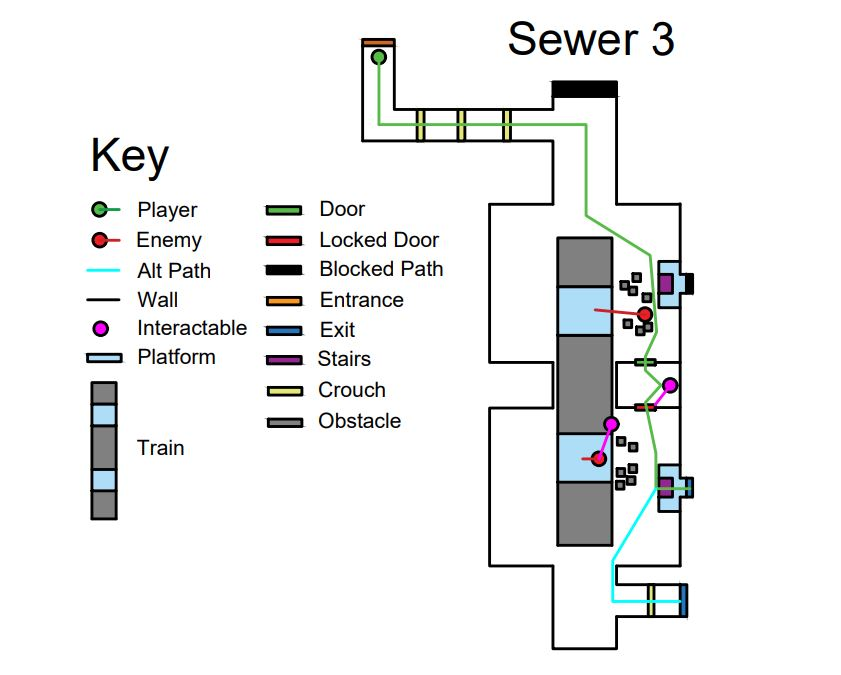
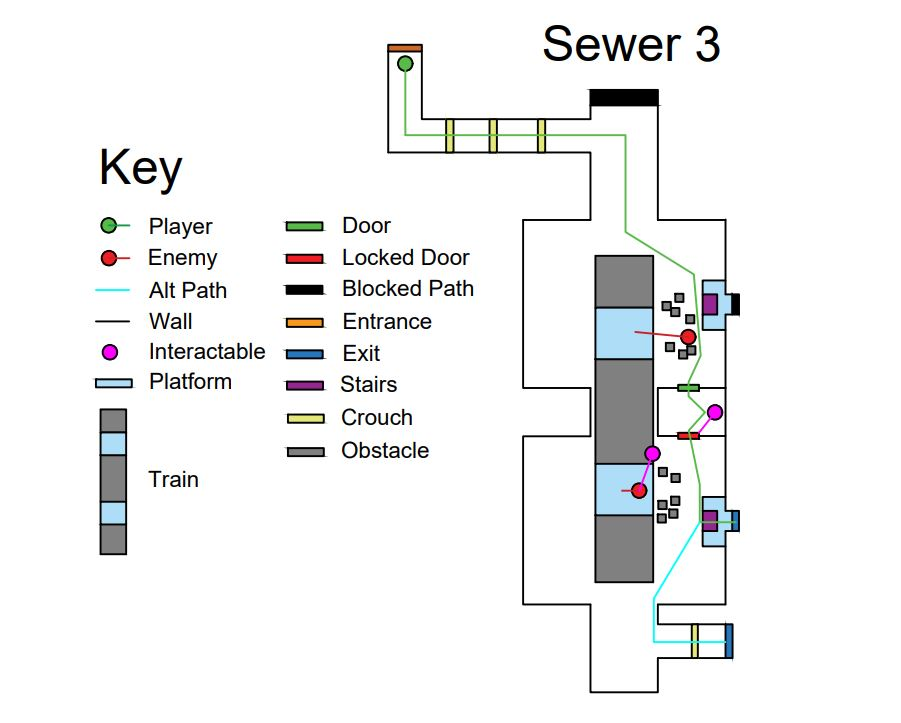
Violet Steele

Changed region(s): [[0.4328, 0.0311, 0.8347, 0.9644], [0.0927, 0.1867, 0.5256, 0.7778], [0.5565, 0.3111, 0.5874, 0.5289]]

diff --git a/projects/violetSteele.html b/projects/violetSteele.html
@@ -43,23 +43,19 @@
 			<!-- Content -->
 				<div id="content">
 				<article class="box post">
-					<header class="style1">
-					        <!-- <h2>
-								<a href="#Level Design">Level Design</a> | 
-								<a href="#Game Design">Game Design</a> |
-								<a href="#Environmental Design">Environmental Design</a>
-							</h2> -->
-					</header>
-			
-					<!-- Image	-->
-					<center>
-						<img src="images/VioletSteelePoster.png" alt="Poster for Violet Steele" width="500"/>
-						<p> Poster for Violet Steele </p>
-					</center>
-			
 					
-					<!-- Details -->				
-					<center>
+			
+		<!-- Overview -->
+		<header class="style1">
+			<h2>Overview</h2>
+			</header>
+				
+			<!-- Image	-->
+				<figure>
+					<img src="images/VioletSteelePoster.png" alt="Poster for Violet Steele" align="right"width="500"/>
+				</figure>
+		
+					<!-- Details -->			
 						<p> <strong> Duration: </strong> 15 Weeks (Senior Capstone for School) <br>
 						<strong> Team Size: </strong> 5 <br>
 						<strong> Tools: </strong> UE5, Github, Trello, AutoCAD<br>
@@ -72,12 +68,14 @@
 								<a href="https://www.linkedin.com/in/christian-hsieh-c384/" target="_blank">Christian Hsieh</a>,
 								<a href="https://www.linkedin.com/in/jonathan-c-jackson/" target="_blank">Jonathan Jackson</a>
 						</p>
-					</center>	
+
 						<!-- Description -->
 						<p> <strong> Description: </strong> Violet Steele is a third-person action adventure stealth game set in the steampunk country of Novellia.
 						Once a peaceful and flourishing country, Novellia is now under a hostile takeover by the Hex Alliance due to the abuse of robots fueled by
 						the revolutionary invention of electricity. </p>
 						
+						
+
 						<!-- Responsibilities -->
 						<p> <strong> Responsibilities: </strong> 
 							<ul>
@@ -87,55 +85,58 @@
 								<li> Working with writers to strengthen gameplay </li>
 								<li> Creating an environment that reflects our games narrative </li>
 								<li> Enemy placement </li>
-								<li> Resource placement </li>
-								<li> Creating 3D assets for 3D modelers (Assets with details so they could better understand what I envisioned) </li>
+								<li> Set dressing (Furniture, Lighting, and Resource placement) </li>
+								<li> Creating 3D assets for 3D modelers (Assets with details so they could <br> better understand what I envisioned) </li>
 								
 							</ul>
 						</p>
+					
+					
 				</article>
 				</div>
 
 		<!-- Research and Planning -->
-		<header class="style1">
-		<h2>Research and Planning</h2>
-		</header>
-			
-			<!-- Stealth Game Research-->
-			<header class="style2">
-				<h2> Stealth Game Research </h2>
+			<header class="style1">
+				<h2>Research and Planning</h2>
 			</header>
+			
+				<!-- Stealth Game Research-->
+					<header class="style2">
+						<h2> Stealth Game Research </h2>
+					</header>
 
-			<ul>
-				<li> Researched and watched videos on Stealth games </li>
-				<li> Researching <strong> designer's </strong> perspective's on stealth games </li>
-				<li> Researching <strong> player's </strong> perspective's on stealth games </li>
-				<li> Researched Level Design concepts and structures that could fit our game </li>
-				<li> Researched games with similar Game Mechanics </li>
-			</ul>
+						<ul>
+							<li> Researched and watched videos on Stealth games </li>
+							<li> Researching <strong> designer's </strong> perspective's on stealth games </li>
+							<li> Researching <strong> player's </strong> perspective's on stealth games </li>
+							<li> Researched Level Design concepts and structures that could fit our game </li>
+							<li> Researched games with similar Game Mechanics </li>
+						</ul>
 		
-			<br>
+					<br>
 			
-			
-			<figure>
-				<center>
-					<a href="https://www.youtube.com/watch?v=CTBor4rhnQs&t=24s" target='_blank'>
-						<img src="images/Other/Aubrey Serr.jpg" alt="Poster for Violet Steele" width="500"/> </a>
-							<figcaption> Watched Aubrey Serr’s GDC video on designing "Radically Non-Linear Levels” to see if this 
-										 structure could fit our game </figcaption>
-				</center> 
-			</figure>
+					<!-- Image -->
+						<figure>
+							<center>
+								<a href="https://www.youtube.com/watch?v=CTBor4rhnQs&t=24s" target='_blank'>
+								<img src="images/Other/Aubrey Serr.jpg" alt="Poster for Violet Steele" width="500"/> </a>
+									<figcaption> <strong> Watched Aubrey Serr's GDC video on designing "Radically Non-Linear Levels” to see if this 
+									structure could fit our game </strong> </figcaption>
+							</center> 
+						</figure>
 
-			<br>
+					<br>
 
-			<figure>
-				<center>
-					<a href="https://youtu.be/y99DqGw-jG4?t=14689" target='_blank'>
-						<img src="images/Other/LOU Gameplay.JPG" alt="Poster for Violet Steele" width="500"/> </a>
-							<figcaption> The Last of Us gameplay with similar game mechanics to our own </figcaption>
-   				</center>
-			</figure>
+					<!-- Image -->
+						<figure>
+							<center>
+								<a href="https://youtu.be/y99DqGw-jG4?t=14689" target='_blank'>
+								<img src="images/Other/LOU Gameplay.JPG" alt="Poster for Violet Steele" width="500"/> </a>
+									<figcaption> <strong> Last of Us gameplay with similar game mechanics to our own </strong> </figcaption>
+   							</center>
+						</figure>
 			
-			<br>
+					<br>
 
 			<!-- Image and Architecture Research -->
 			<header class="style2">
@@ -153,20 +154,52 @@
 			<header class="style1">
 				<h2> Prototyping and Iterations </h2>
 			</header>
-			
-			
-			<p> The sewer section of Level 1 would serve as the introduction to the game's mechanics and also show the player how they entered the city despite the strict
-				curfew. The sewer section would connect to a train station where the player would make their first encounter with enemies and given an oppurtunity to try
-				out the game's mechanics</p>
 
-			<center>
-				<img style="border:2px solid black" src="images/Sewer/Sewer 1 - 2D.JPG" alt="First 2D sketch of Sewer Section" width="500"/>
-				<img style="border:2px solid black" src="images/Sewer/Sewer 2 - 2D.JPG" alt="Second 2D sketch of Sewer Section" width="500"/>
-				<img style="border:2px solid black" src="images/Sewer/Sewer 3 - 2D.JPG" alt="Third 2D sketch of Sewer Section" width="500"/>
-				<img style="border:2px solid black" src="images/Sewer/Sewer 4 - 2D.JPG" alt="Fourth 2D sketch of Sewer Section" width="500"/> <br>
-				<strong> 2D iterations of the sewer drawn in AutoCAD </strong>
-			</center>
-		
+				<!-- 2D Mapping -->
+					<header class="style2">
+						<h2> 2D Mapping </h2>
+					</header>
+
+						<ul>
+							<li> After settling on our core gameplay mechanics I began prototyping </li>
+							<li> Creating hand drawn sketches then translating them to 2D Maps with Keys </li>
+						</ul>
+
+						<br>
+
+					<figure>
+						<center>
+							<img style="border:2px solid black" src="images/Sewer/Sewer 1 - 2D.JPG" alt="First 2D iteration of the Sewer" width="400"/>
+							<img style="border:2px solid black" src="images/Sewer/Sewer 2 - 2D.JPG" alt="Second 2D iteration of the Sewer" width="400"/>
+							<img style="border:2px solid black" src="images/Sewer/Sewer 3 - 2D.JPG" alt="Third 2D iteration of the Sewer" width="400"/>
+							<img style="border:2px solid black" src="images/Sewer/Sewer 4 - 2D.JPG" alt="Fourth 2D iteration of the Sewer" width="400"/>
+							<figcaption> <strong> Iterations of the Sewer section in Level 1 drawn in AutoCAD </strong></figcaption>
+						</center>
+					</figure>
+			
+			<br>
+			<br>
+
+				<!-- 3D Mapping -->
+					<header class="style2">
+						<h2> 3D Mapping </h2>
+					</header>
+
+						<ul>
+							<li> Greyboxed my final 2D iteration (Sewer 4) into a 3D version when I felt satisfied with it </li>
+							<li> I added detail to some of the greyboxed assets to help give my 3D modeler what I envisioned </li>
+						</ul>
+
+					<figure>
+						<center>
+							<img src="images/Sewer/Sewer2.png" alt="Greyboxed Version of the Sewer" width="500"/>
+							<img src="images/Sewer/Sewer4.png" alt="Greyboxed Version of the Sewer" width="500"/>
+							<img src="images/Sewer/Sewer5.png" alt="Greyboxed Version of the Sewer" width="500"/>
+							<img src="images/Sewer/Sewer6.png" alt="Greyboxed Version of the Sewer" width="500"/>
+							<figcaption> <strong> Greyboxed versions of the Sewer section in Level 1 in UE5 </strong></figcaption>
+						</center>
+					</figure>
+
 			<!-- Square -->
 			<header class="style1">
 				<h2> Square </h2>
@@ -228,35 +261,6 @@
 				<img src="images/Top/Top2.png" alt="Screenshot of Level 2" width="500"/>
 			</center>
 
-		<!-- Game Design -->
-		 <header class="style1">
-                <h2 id="Game Design">Game Design</h2>
-                </header>
-                <a href="#" class="image featured"><img src="" alt="" /></a>
-	
-		<p> As the Game Designer I helped design <b> all the gameplay mechanics </b> that were to be implemented into our game. </p>
-
-		<p> The goal with these systems is to give the player a number of tools to stealth through each level the way they want to. </p>		
-	
-		<!-- Environmental Design -->
-		 <header class="style1">
-                <h2 id="Environmental Design">Environmental Design</h2>
-                </header>
-                <a href="#" class="image featured"><img src="" alt="" /></a>
-
-		<p> With level design, comes aspects of environmental design and world building. So it was up to me to build a world that reflected the narrative of our game as well as the mood. </p>
-
-		<p> In the "Square" I had one section of the space very crowded with pipes and evidence of life.
-		This reflected the way of life for the people who lived here as they were still reliant on steam as well as each other to live.
-		While the richer area had significantly less pipes, which reflected their move away from steam and towards electricity. </p>
-
-		<!-- Puzzle Design -->
-		 <header class="style1">
-                <h2 id="Puzzle Design">Puzzle Design</h2>
-                </header>
-                <a href="#" class="image featured"><img src="" alt="" /></a>
-
-		<p> In Progess </p>
 		</div>
 		</div>
 
